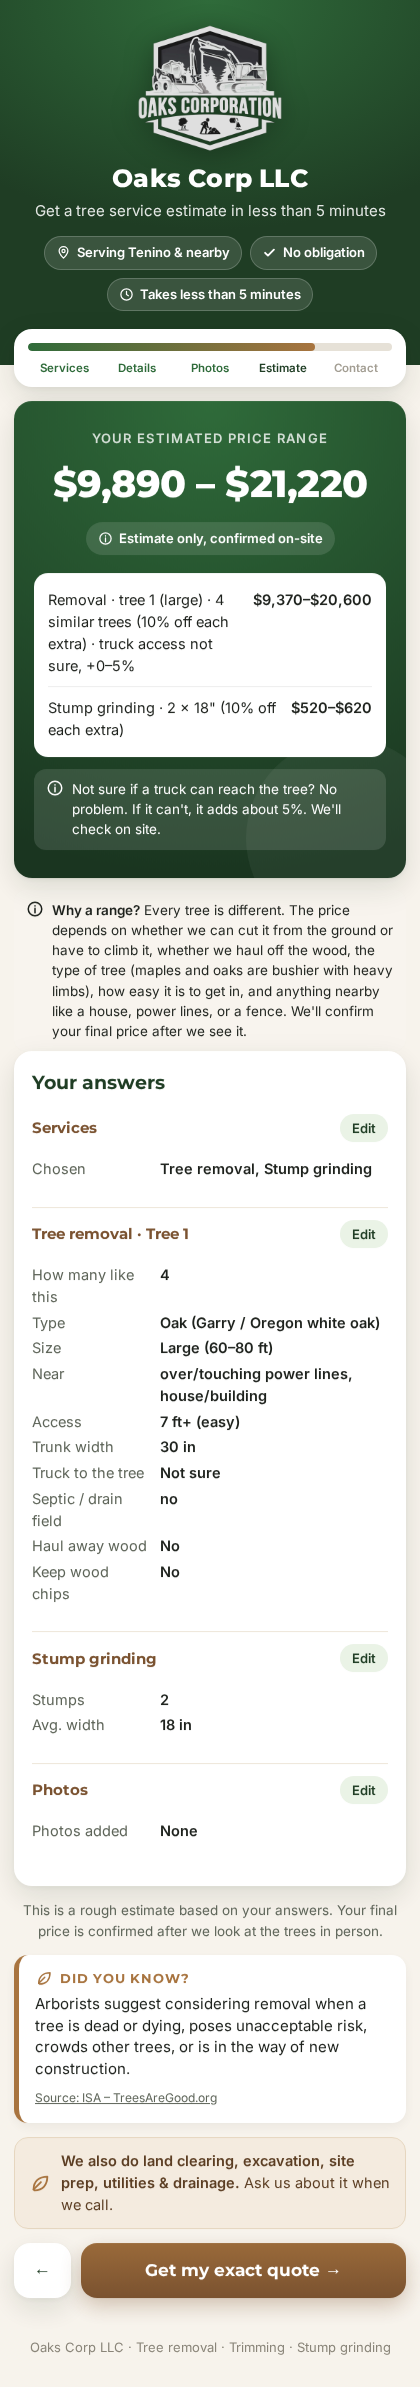
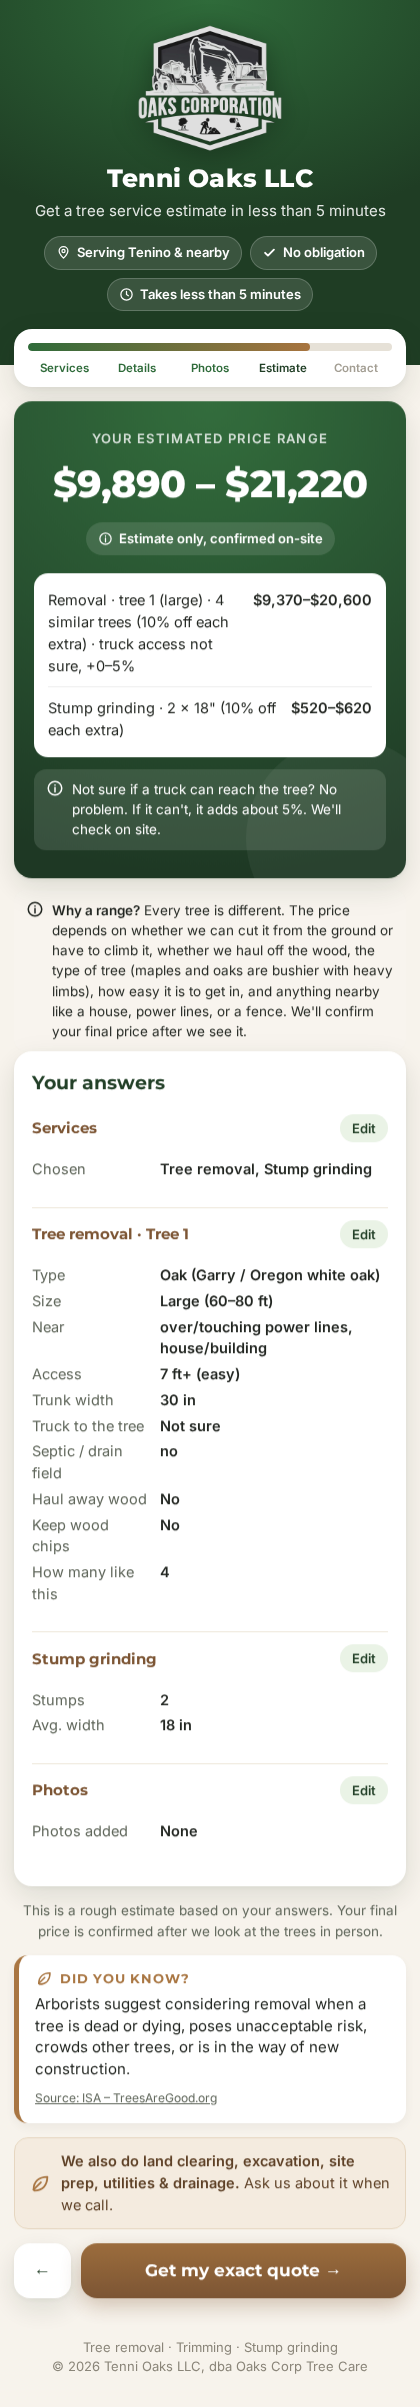
Move similar-trees counter to end

diff --git a/index.html b/index.html
@@ -267,7 +267,6 @@ const typeName=t=>{const v=t.querySelector('.ttype').value;return v==='other'?(t
 function addTree(type){const list=$(type==='removal'?'removalList':'trimList');const el=document.createElement('div');el.className='tree';el.dataset.type=type;
  el.innerHTML=`<div class="tree-h"><h3>Tree ${list.children.length+1}</h3><button class="x" type="button">Remove</button></div>
  ${type==='trimming'?`<span class="fl">How much trimming?</span>${seg('amt',[['full','Full trim','shape / thin the tree'],['branch','Just a branch or two','usually around $450']])}`:''}
- <span class="fl">How many trees like this one?</span><div class="stepper"><button type="button" class="qm">−</button><input class="tqty" type="number" value="1" min="1" max="20" inputmode="numeric"><button type="button" class="qp">+</button></div>
  <span class="fl">Size</span>${seg('size',[['small','Small','under 30 ft'],['medium','Medium','30–60 ft'],['large','Large','60–80 ft'],['xl','Extra large','80–100 ft'],['huge','Huge','100 ft+']])}
  <span class="fl">Trunk width (diameter), inches <span class="hint">Optional</span></span><input type="number" class="tdia" min="1" inputmode="numeric" placeholder="e.g. 20">
  <div class="tip"><svg><use href="#i-info"/></svg><span><b>How to measure:</b> about 5 ft off the ground, wrap a tape around the trunk and divide by 3.14. Or just estimate. Rough guide: medium 16–26 in, large 26–36, extra large 36–48, huge 48+.</span></div>
@@ -283,7 +282,8 @@ function addTree(type){const list=$(type==='removal'?'removalList':'trimList');c
  <div class="multi" data-k="septic"><button type="button" data-v="no" data-x="1" class="sel">No</button><button type="button" data-v="unsure" data-x="1">Not sure</button><button type="button" data-v="path">Yes, in the access path</button><button type="button" data-v="near">Yes, near the tree</button></div>
  <label class="tog"><input type="checkbox" class="haul"><i></i>Would you like us to haul away the wood we can't chip? (anything over about 10–13 inches thick)</label>
  <span class="fl">Do you want to keep the wood chips?</span>${seg('chips',[['no','No','we take them'],['yes','Yes','leave them']])}
- <span class="fl">Notes about this tree (optional)</span><textarea class="tnotes" rows="2" placeholder="Species, leaning, dead limbs, anything else"></textarea>`;
+ <span class="fl">Notes about this tree (optional)</span><textarea class="tnotes" rows="2" placeholder="Species, leaning, dead limbs, anything else"></textarea>
+ <span class="fl">How many trees like this one?</span><div class="stepper"><button type="button" class="qm">−</button><input class="tqty" type="number" value="1" min="1" max="20" inputmode="numeric"><button type="button" class="qp">+</button></div>`;
  el.querySelector('.x').onclick=()=>{el.remove();[...list.children].forEach((t,i)=>t.querySelector('h3').textContent='Tree '+(i+1))};
  const q=el.querySelector('.tqty'),qs=d=>q.value=Math.min(20,Math.max(1,(+q.value||1)+d));el.querySelector('.qm').onclick=()=>qs(-1);el.querySelector('.qp').onclick=()=>qs(1);
  el.querySelector('.ttype').onchange=e=>{el.querySelector('.tother').style.display=e.target.value==='other'?'block':'none'};
@@ -328,9 +328,9 @@ const SVC={removal:'Tree removal',trimming:'Tree trimming',stump:'Stump grinding
 function summary(done){let h='<h3>Your answers</h3>';
  h+=grp('Services',1,kv([['Chosen',[...sel].map(v=>SVC[v]).join(', ')]]),done);
  treeInfo.forEach((t,i)=>{h+=grp(`${SVC[t.service]} · Tree ${treeInfo.slice(0,i+1).filter(x=>x.service===t.service).length}`,2,kv([
-  ['How many like this',t.count],['Type',t.treeType],['Size',{small:'Small (under 30 ft)',medium:'Medium (30–60 ft)',large:'Large (60–80 ft)',xl:'Extra large (80–100 ft)',huge:'Huge (100 ft+)'}[t.size]],
+  ['Type',t.treeType],['Size',{small:'Small (under 30 ft)',medium:'Medium (30–60 ft)',large:'Large (60–80 ft)',xl:'Extra large (80–100 ft)',huge:'Huge (100 ft+)'}[t.size]],
   ['Near',t.near.map(v=>LBL[v]).join(', ')],['Access',LBL[t.access]+(t.gateWidthFt?` · gate ${t.gateWidthFt} ft`:'')],
-  ['Trunk width',t.diameterIn?t.diameterIn+' in':''],['Trimming',t.amount==='branch'?'Just a branch or two':(t.service==='trimming'?'Full trim':'')],['Truck to the tree',{yes:'Yes',no:'No',unsure:'Not sure'}[t.truck]],['Septic / drain field',t.septic.map(v=>LBL[v]).join(' + ')],['Haul away wood',t.haulAway?'Yes':'No'],['Keep wood chips',t.keepChips?'Yes, leave them':'No'],['Notes',t.notes]]),done)});
+  ['Trunk width',t.diameterIn?t.diameterIn+' in':''],['Trimming',t.amount==='branch'?'Just a branch or two':(t.service==='trimming'?'Full trim':'')],['Truck to the tree',{yes:'Yes',no:'No',unsure:'Not sure'}[t.truck]],['Septic / drain field',t.septic.map(v=>LBL[v]).join(' + ')],['Haul away wood',t.haulAway?'Yes':'No'],['Keep wood chips',t.keepChips?'Yes, leave them':'No'],['Notes',t.notes],['How many like this',t.count]]),done)});
  if(sel.has('stump'))h+=grp('Stump grinding',2,kv([['Stumps',$('stumpCount').value],['Avg. width',$('stumpDia').value+' in']]),done);
  h+=grp('Photos',3,kv([['Photos added',photos.length||'None']]),done);
  if(done)h+=grp('Timing &amp; contact',5,kv([['When',when||'Not chosen'],['Preferred date',$('pdate').value],['Land clearing, excavation, site prep, utilities / drainage',$('landX').checked?'Interested':'No'],['Notes',$('notes').value]]),true);
